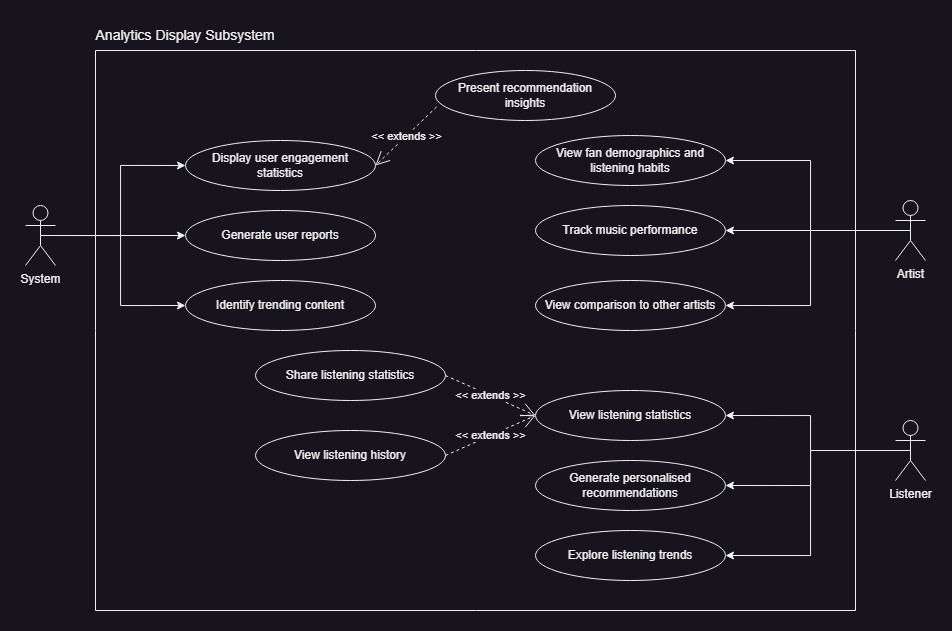
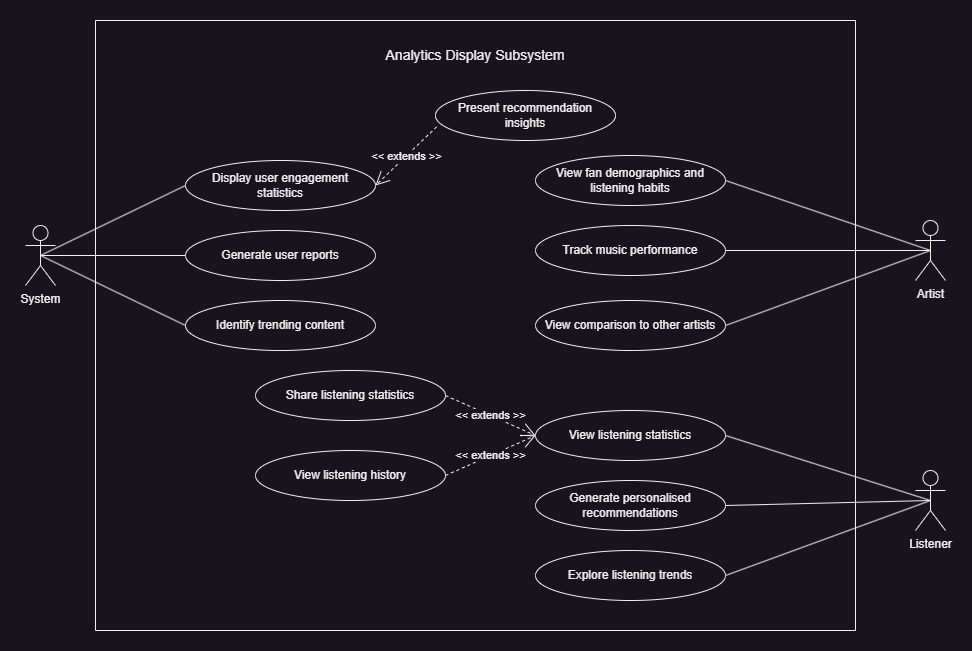
📐 added new use case diagrams

diff --git a/Documentation/RequirementSpecification.md b/Documentation/RequirementSpecification.md
@@ -24,9 +24,8 @@
 - [Use Case Diagrams](#use-case-diagrams)
   - [1. User Management Subsystem](#1-user-management-subsystem)
   - [2. Profile Management Subsystem](#2-profile-management-subsystem)
-  - [3. Music Recommendation Subsystem](#3-music-recommendation-subsystem)
-  - [4. Analytics Display Subsystem](#4-analytics-display-subsystem)
-  - [5. AI Processing Subsystem](#5-ai-processing-subsystem)
+  - [3. Analytics Display Subsystem](#3-analytics-display-subsystem)
+  - [4. AI Processing Subsystem](#4-ai-processing-subsystem)
 - [UML Class Diagram](#uml-class-diagram)
 - [Design Patterns](#design-patterns)
   - [Observer](#observer)
@@ -351,25 +350,23 @@ The listener accesses their profile page and updates their preferences. The syst
 **Scenario:**
 The artist accesses the analytics page and views detailed insights about their listeners' preferences and behaviours.
 
+
+
 <br />
 <br />
 
 # Use Case Diagrams
 
 ## 1. User Management Subsystem
-![user management](<User Management.png>)
+![user-management](<User Management.png>)
 
 ## 2. Profile Management Subsystem
-![profile management](<Profile Management.png>)
+![profile-management](<Profile Management.png>)
 
-## 3. Music Recommendation Subsystem
-![music recommendation](<Music Recommendation Engine.png>)
+## 3. Analytics Display Subsystem
+![analytics](<Analytics Display.png>)
 
-## 4. Analytics Display Subsystem
-![analytics display](<Analytics Display.png>)
-
-## 5. AI Processing Subsystem
-![AI Processing Subsystem](<AI Subsystem.png>)
+## 4. AI Processing Subsystem
 
 <br />
 <br />
@@ -528,7 +525,7 @@ A Node.js REST API serves as an intermediary between the front end and the backe
 
 #### Deployment
 - **Continuous Integration/Continuous Deployment (CI/CD):** Implement CI/CD pipelines to automate testing, integration, and deployment processes.
-- **Downtime:** Minimise downtime during deployments and maintenance, aiming for zero-downtime deployments using strategies such as blue-greem deployments or canary releases. 
+- **Downtime:** Minimise downtime during deployments and maintenance, aiming for zero-downtime deployments using strategies such as blue-green deployments or canary releases. 
 
 #### Security
 - **Authentication:** Use OAuth for secure user authentication and authorisation.
@@ -568,6 +565,7 @@ A Node.js REST API serves as an intermediary between the front end and the backe
 - **Angular:** Frontend framework for building the user interface. Uses an HTML-based template language for dynamic rendering and interaction.
 - **Angular PWA:** Progressive Web App support in Angular for creating installable, offline-capable apps.
 - **Tailwind CSS:** A utility-first CSS framework for rapidly building custom user interfaces.
+- **Flowbite:** An open-source library of UI components based on the utility-first Tailwind CSS framework.
 
 ### Backend
 - **Node.js:** JavaScript runtime for building the REST API.
